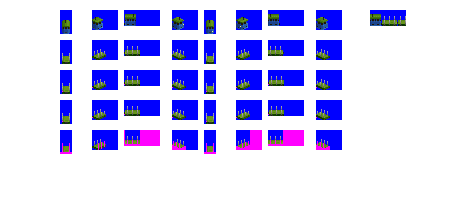
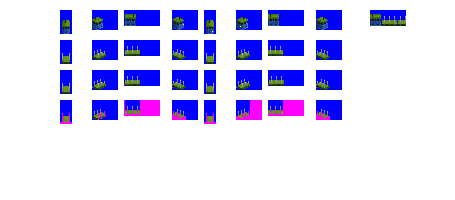
Codechange: only need to draw one row of cargo loc points, the loading and loaded state loc points will always be identical, the load state is handled in the cargo sprite rows

diff --git a/src/graphics_processor/pipelines.py b/src/graphics_processor/pipelines.py
@@ -160,22 +160,28 @@ class ExtendSpriterowsForCompositedCargosPipeline(Pipeline):
         # 2 spriterows for the vehicle loading / loaded states, with pink loc points for cargo
         # a mask row for the vehicle, with pink mask area, which is converted to black and white mask image
         # an overlay for the vehicle, created from the vehicle empty state spriterow, and comped with the mask after each cargo has been placed
-        crop_box_vehicle_cargo_rows = (0,
+        # there is a case not handled, where long cargo sprites will cabbed vehicles in / direction with cab at N end, hard to solve
+        crop_box_vehicle_cargo_loc_row = (0,
                            self.base_offset,
                            graphics_constants.spritesheet_width,
-                           self.base_offset + cargo_group_output_row_height)
-        vehicle_cargo_rows_image = Image.open(self.input_path).crop(crop_box_vehicle_cargo_rows)
-        #vehicle_cargo_rows_image.show()
-        crop_box_vehicle_overlay = (0,
+                           self.base_offset + graphics_constants.spriterow_height)
+        vehicle_cargo_loc_image = Image.open(self.input_path).crop(crop_box_vehicle_cargo_loc_row)
+        # get the loc points
+        loc_points = [pixel for pixel in pixascan(vehicle_cargo_loc_image) if pixel[2] == 226]
+        # two cargo rows needed, so extend the loc points list
+        loc_points.extend([(pixel[0], pixel[1] + 30, pixel[2]) for pixel in loc_points])
+        # sort them in y order, this causes sprites to overlap correctly when there are multiple loc points for an angle
+        loc_points = sorted(loc_points, key=lambda x: x[1])
+        crop_box_vehicle_base = (0,
                            self.cur_vehicle_empty_row_offset,
                            graphics_constants.spritesheet_width,
                            self.cur_vehicle_empty_row_offset + graphics_constants.spriterow_height)
-        vehicle_overlay_image = Image.open(self.input_path).crop(crop_box_vehicle_overlay)
-        #vehicle_overlay_image.show()
+        vehicle_base_image = Image.open(self.input_path).crop(crop_box_vehicle_base)
+        #vehicle_base_image.show()
         crop_box_mask = (0,
-                         self.base_offset + cargo_group_output_row_height,
+                         self.base_offset + graphics_constants.spriterow_height,
                          graphics_constants.spritesheet_width,
-                         self.base_offset + cargo_group_output_row_height + graphics_constants.spriterow_height)
+                         self.base_offset + (2 * graphics_constants.spriterow_height))
         vehicle_mask = Image.open(self.input_path).crop(crop_box_mask).point(lambda i: 255 if i == 226 else 0).convert("1")
         #vehicle_mask.show()
         #mask and empty state will need pasting once for each of two cargo rows, so two crop boxes needed
@@ -187,6 +193,12 @@ class ExtendSpriterowsForCompositedCargosPipeline(Pipeline):
                                 graphics_constants.spriterow_height,
                                 graphics_constants.spritesheet_width,
                                 2 * graphics_constants.spriterow_height)
+        vehicle_cargo_rows_image = Image.new("P", (graphics_constants.spritesheet_width, cargo_group_output_row_height))
+        vehicle_cargo_rows_image.putpalette(DOS_PALETTE)
+        # paste empty states in for the cargo rows (base image = empty state)
+        vehicle_cargo_rows_image.paste(vehicle_base_image, crop_box_comp_dest_1)
+        vehicle_cargo_rows_image.paste(vehicle_base_image, crop_box_comp_dest_2)
+        #vehicle_cargo_rows_image.show()
         crop_box_dest = (0,
                          0,
                          graphics_constants.spritesheet_width,
@@ -207,13 +219,6 @@ class ExtendSpriterowsForCompositedCargosPipeline(Pipeline):
                     cargo_mask = cargo_mask.point(lambda i: 0 if i == 0 else 255).convert("1")
                     cargo_sprites.append((cargo_sprite, cargo_mask))
             vehicle_comped_image = vehicle_cargo_rows_image.copy()
-            # paste the empty state over the cargo rows (this will obliterate the pink loc points for those rows in the final comp)
-            vehicle_comped_image.paste(vehicle_overlay_image, crop_box_comp_dest_1)
-            vehicle_comped_image.paste(vehicle_overlay_image, crop_box_comp_dest_2)
-            # get the loc points
-            loc_points = [pixel for pixel in pixascan(vehicle_cargo_rows_image) if pixel[2] == 226]
-            # sort them in y order, this causes sprites to overlap correctly when there are multiple loc points for an angle
-            loc_points = sorted(loc_points, key=lambda x: x[1])
             for pixel in loc_points:
                 angle_num = 0
                 for counter, bbox in enumerate(global_constants.spritesheet_bounding_boxes):
@@ -235,8 +240,9 @@ class ExtendSpriterowsForCompositedCargosPipeline(Pipeline):
                                       pixel[0] + cargo_width,
                                       pixel[1] + 1)
                 vehicle_comped_image.paste(cargo_sprites[cargo_sprite_num][0], cargo_bounding_box, cargo_sprites[cargo_sprite_num][1])
-            vehicle_comped_image.paste(vehicle_overlay_image, crop_box_comp_dest_1, vehicle_mask)
-            vehicle_comped_image.paste(vehicle_overlay_image, crop_box_comp_dest_2, vehicle_mask)
+            # vehicle overlay with mask - overlays any areas where cargo shouldn't show
+            vehicle_comped_image.paste(vehicle_base_image, crop_box_comp_dest_1, vehicle_mask)
+            vehicle_comped_image.paste(vehicle_base_image, crop_box_comp_dest_2, vehicle_mask)
             #vehicle_comped_image.show()
             vehicle_comped_image_as_spritesheet = self.make_spritesheet_from_image(vehicle_comped_image)
             self.units.append(AppendToSpritesheet(vehicle_comped_image_as_spritesheet, crop_box_dest))
@@ -261,7 +267,7 @@ class ExtendSpriterowsForCompositedCargosPipeline(Pipeline):
                     input_spriterow_count = 2
                     self.add_bulk_cargo_spriterows()
                 elif spriterow_type == 'piece_cargo':
-                    input_spriterow_count = 3
+                    input_spriterow_count = 2
                     self.add_piece_cargo_spriterows(consist.unique_units[vehicle_counter], global_constants)
                 cumulative_input_spriterow_count += input_spriterow_count
 
